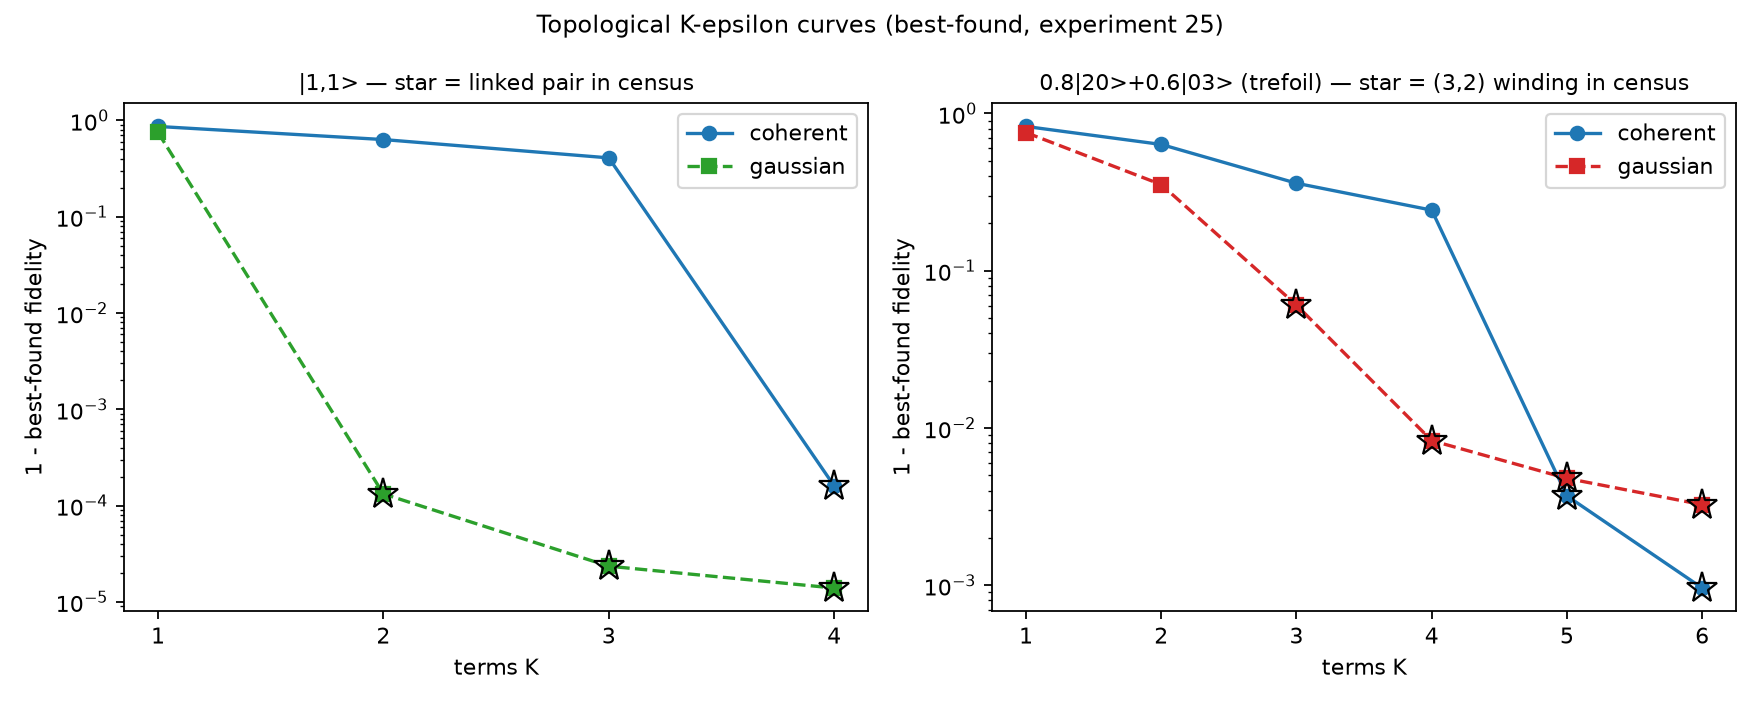
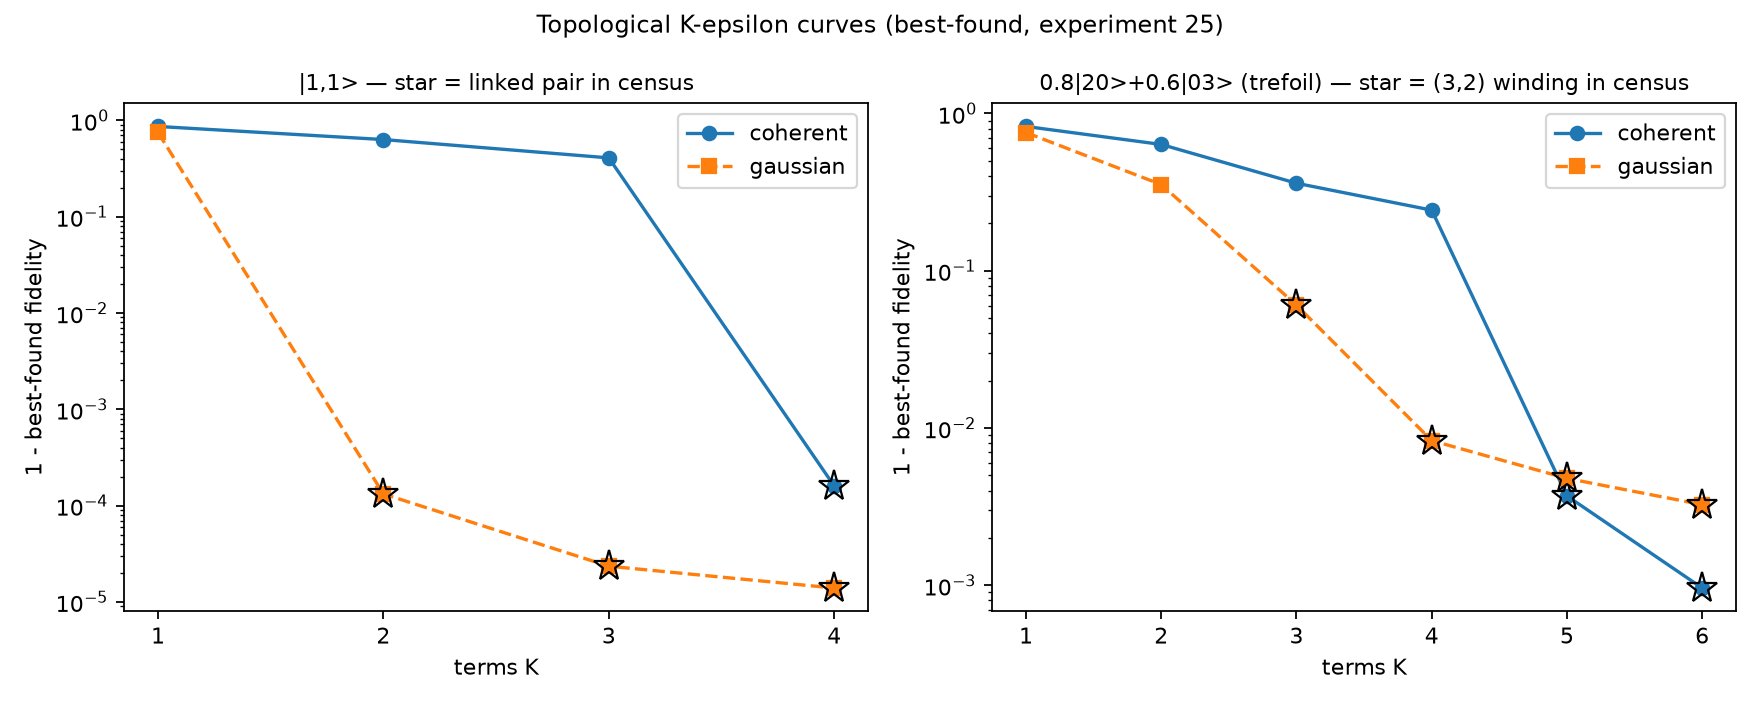
exp25: consistent figure colors; README records byte-identical rerun
The figure regeneration rerun reproduced topological_kcurves.json
byte-for-byte (fixed seeds), so the README now states it as verified.

Claude-Session: https://claude.ai/code/session_01So48ZWqUkpArtow1tGFGzP

diff --git a/experiments/25_topological_kcurves/README.md b/experiments/25_topological_kcurves/README.md
@@ -58,5 +58,6 @@ winding at `K = 3`) gets the earlier cliff.
 python experiments/25_topological_kcurves/run.py
 ```
 
-Seeds are fixed; the census toolkit and its tests live in
-`wigner_splat/stellar2.py` / `tests/test_stellar2.py`.
+Seeds are fixed: the rerun that produced the committed figure regenerated
+`topological_kcurves.json` byte-identically. The census toolkit and its
+tests live in `wigner_splat/stellar2.py` / `tests/test_stellar2.py`.
